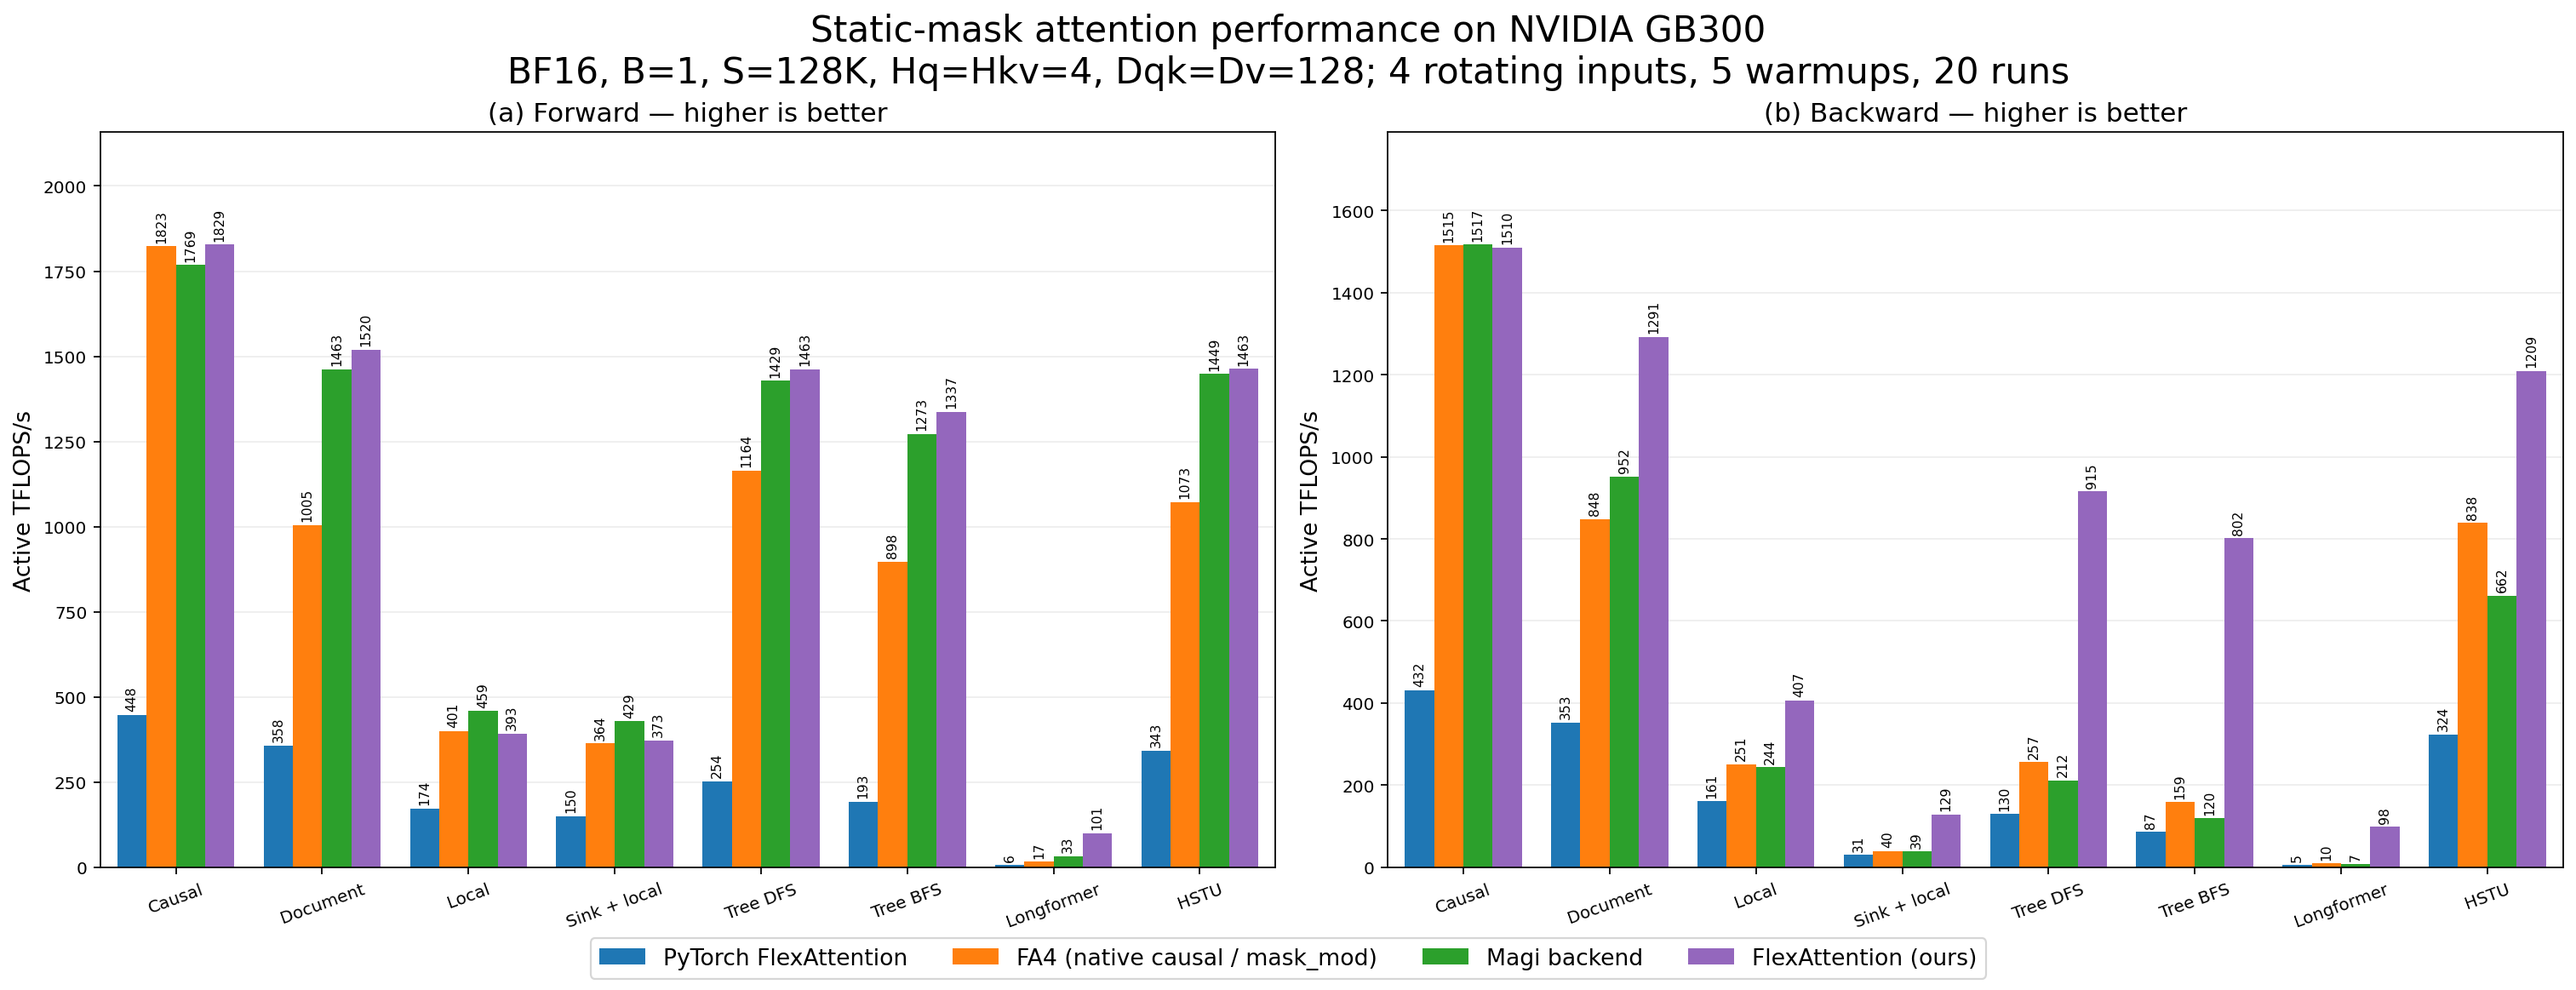
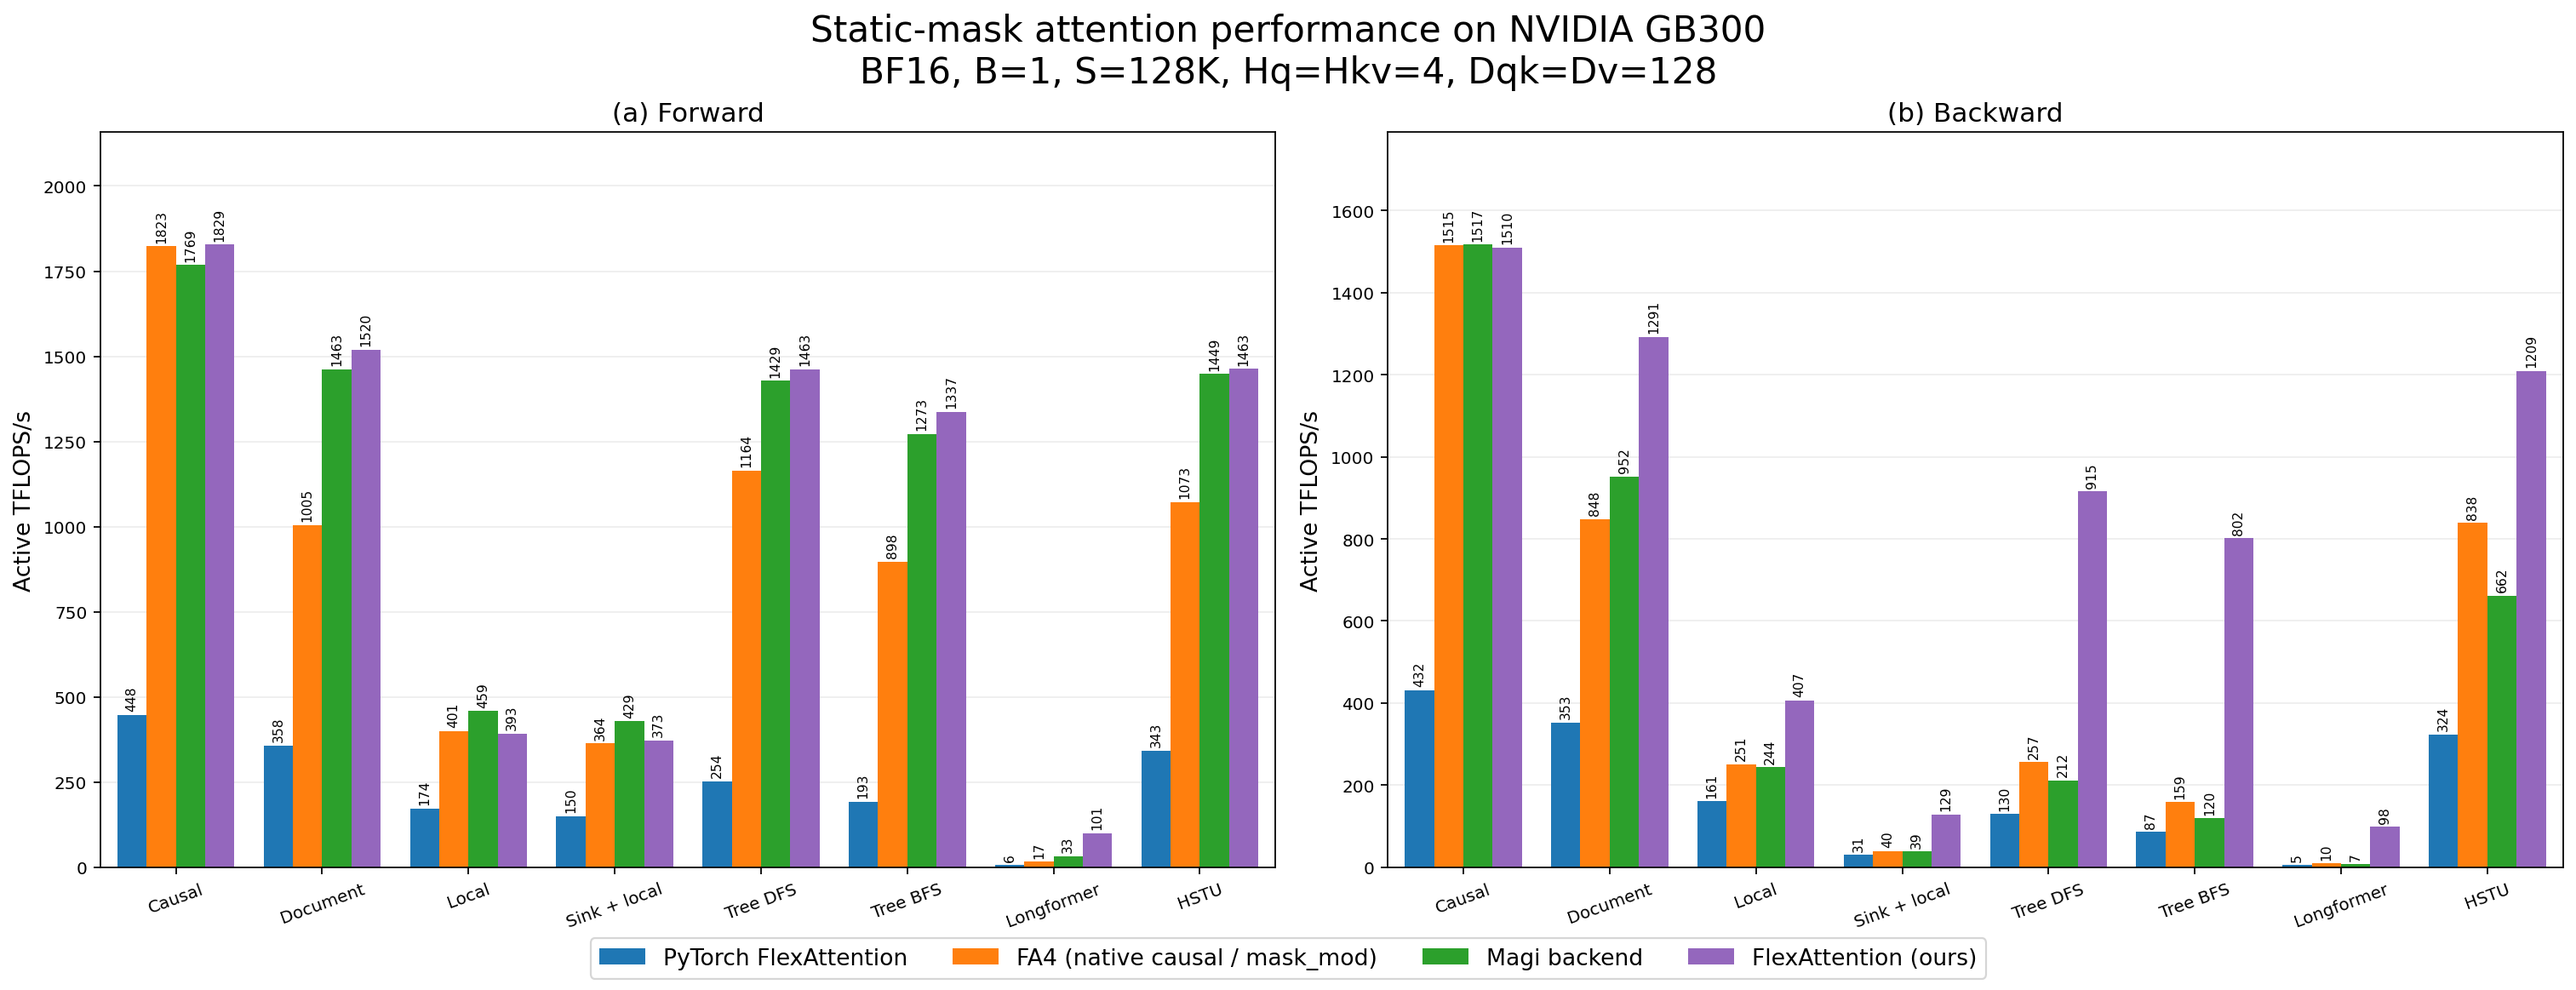
docs: simplify benchmark presentation
Show benchmark cases and results as images without duplicate analysis or result tables.

Changed region(s): [[0.1864, 0.0619, 0.8387, 0.1238]]

diff --git a/README.md b/README.md
@@ -81,80 +81,13 @@ The default GPU smoke suite contains the original 144 randomly stratified repres
 
 ## Standard Static-Mask Benchmark
 
+### Benchmark Cases
+
 ![Static attention mask shapes](docs/assets/static_mask_shapes.png)
 
-The figure is schematic; the benchmark generator, rather than the illustrative token counts in
-the image, defines the measured cases. The deterministic generators are defined in
-[benchmark_flex_attn.py](benchmarks/benchmark_flex_attn.py): document lengths are 4K--16K;
-tree attention has depth 7 and node-length jitter of 20%; Longformer uses radius 256 and eight
-global tokens; each HSTU document is 8K--16K and is split evenly between context and target.
-
-All values are medians on NVIDIA GB300 (SM103) with BF16, B=1, S=128K, Hq=Hkv=4, and
-Dqk=Dv=128. FlexAttention uses the current generic SM100/SM103 default. Each backend rotates
-four independently allocated Q/K/V/dO input sets, uses 5 warmups and 20 measured runs, and does
-not run an explicit L2-flush kernel or sleep between samples. FA4 uses native `causal=True` for
-the Causal case and `mask_mod` with the official Torch BlockMask training metadata path for the
-other masks at
-[commit 0251105a](https://github.com/dao-ailab/flash-attention/commit/0251105a2fb19d2957484b7f023cd8c115286ced).
-Magi uses its CUDA Q2K/K2Q CSR planner and arbitrary-mask backend at
-[commit 55221a93](https://github.com/jiayus-nvidia/flash-attention/commit/55221a93a8fc415a721502ed68643983dbf67862).
-
-All four backends were rerun with the same mask generators, input seeds, input-pool order, and
-timing protocol. FlexAttention, Magi, and PyTorch use CUTLASS DSL 4.5.2 and Quack 0.5.0. FA4
-uses its declared CUTLASS DSL 4.6.2 and Quack 0.6.3 environment. The isolated processes ran on
-the same physical GPU and the same source-tree fingerprint.
-
-Forward and backward timings exclude metadata. For backward, four independent autograd graphs
-are built outside the timed region before each four-sample round. TFLOPS use actual visible
-attention pairs. Table speedup is baseline time divided by FlexAttention time, so values above
-1.0x favor FlexAttention.
-
-Correctness passed for all eight masks. O, LSE, dQ, dK, and dV were checked against a chunked
-eager-FP32 reference at S=8K, followed by a full-S=128K cross-backend check. FA4 native causal
-passed both checks in the official FA4 environment.
-
-### Performance Comparison
+### Benchmark Results
 
 ![Static-mask attention performance on NVIDIA GB300](docs/assets/static_mask_benchmark.png)
-
-Both panels report active TFLOPS/s and use the same medians as the tables below.
-
-### Forward
-
-| Mask | Flex ms / TFLOPS | FA4 ms / Flex speedup | Magi ms / Flex speedup | Torch ms / Flex speedup |
-|---|---:|---:|---:|---:|
-| Causal | 9.620 / 1828.8 | 9.650 / 1.00x | 9.945 / 1.03x | 39.249 / 4.08x |
-| Varlen document causal | 0.967 / 1520.1 | 1.463 / 1.51x | 1.005 / 1.04x | 4.110 / 4.25x |
-| Causal local W=512 | 0.350 / 392.7 | 0.343 / 0.98x | 0.299 / 0.86x | 0.792 / 2.26x |
-| Sink S=4 + local W=512 | 0.371 / 372.9 | 0.380 / 1.02x | 0.323 / 0.87x | 0.921 / 2.48x |
-| Tree attention DFS | 1.041 / 1462.6 | 1.308 / 1.26x | 1.066 / 1.02x | 6.008 / 5.77x |
-| Tree attention BFS | 1.139 / 1337.1 | 1.696 / 1.49x | 1.197 / 1.05x | 7.889 / 6.93x |
-| Longformer | 1.411 / 100.5 | 8.223 / 5.83x | 4.268 / 3.02x | 22.183 / 15.72x |
-| Packed HSTU context/target | 0.868 / 1463.1 | 1.184 / 1.36x | 0.877 / 1.01x | 3.708 / 4.27x |
-
-### Backward
-
-| Mask | Flex ms / TFLOPS | FA4 ms / Flex speedup | Magi ms / Flex speedup | Torch ms / Flex speedup |
-|---|---:|---:|---:|---:|
-| Causal | 29.133 / 1509.6 | 29.030 / 1.00x | 28.990 / 1.00x | 101.870 / 3.50x |
-| Varlen document causal | 2.846 / 1291.4 | 4.335 / 1.52x | 3.861 / 1.36x | 10.419 / 3.66x |
-| Causal local W=512 | 0.845 / 406.6 | 1.367 / 1.62x | 1.407 / 1.67x | 2.138 / 2.53x |
-| Sink S=4 + local W=512 | 2.689 / 128.8 | 8.674 / 3.23x | 8.843 / 3.29x | 11.353 / 4.22x |
-| Tree attention DFS | 4.159 / 915.5 | 14.820 / 3.56x | 17.939 / 4.31x | 29.332 / 7.05x |
-| Tree attention BFS | 4.748 / 802.0 | 23.917 / 5.04x | 31.827 / 6.70x | 43.915 / 9.25x |
-| Longformer | 3.602 / 98.5 | 34.814 / 9.67x | 49.245 / 13.67x | 67.363 / 18.70x |
-| Packed HSTU context/target | 2.626 / 1208.9 | 3.786 / 1.44x | 4.798 / 1.83x | 9.790 / 3.73x |
-
-### Optimization Signals
-
-- Sink + local has almost the same element density as local, but its Flex backward is 3.18x
-  slower. This suggests that the transposed high-connectivity sink region is the main backward
-  target.
-- DFS and BFS have identical visible-pair counts, while BFS has more partial blocks (8,100 versus
-  4,478) and makes Flex forward 9.4% slower. Plan ordering and locality remain material.
-- Longformer has nearly local-mask element density, but global tokens expand active tiles from
-  3,066 to 15,228 and make Flex forward 4.03x slower. Global-row tile amplification is the
-  clearest forward optimization target.
 
 ## Attribution and License
 
